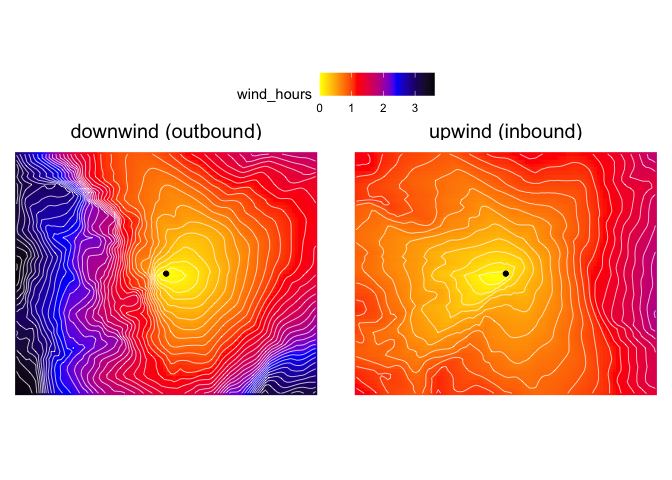
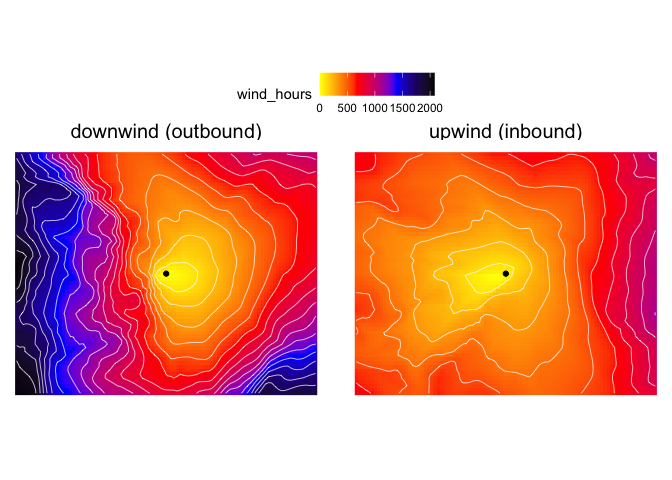
unit conversion bugfix

Changed region(s): [[0.0, 0.3125, 0.4688, 0.8438], [0.5312, 0.3125, 1.0, 0.8438], [0.5, 0.1875, 0.6562, 0.25]]

diff --git a/README.md b/README.md
@@ -59,8 +59,8 @@ downwind <- build_wind_graph(conductance, "downwind") %>%
 upwind <- build_wind_graph(conductance, "upwind") %>%
       accCost(site)
 
-# convert seconds to hours, restructure data, and plot
-d <- stack(downwind / 3600, upwind / 3600) %>%
+# restructure data and plot
+d <- stack(downwind, upwind) %>%
       rasterToPoints() %>%
       as.data.frame() %>%
       gather(direction, wind_hours, layer.1, layer.2) %>%
@@ -70,7 +70,7 @@ d <- stack(downwind / 3600, upwind / 3600) %>%
 ggplot(d) +
       facet_wrap(~direction) +
       geom_raster(aes(x, y, fill = wind_hours)) +
-      geom_contour(aes(x, y, z = wind_hours), binwidth = .1, color = "white", linewidth = .25) +
+      geom_contour(aes(x, y, z = wind_hours), bins = 20, color = "white", linewidth = .25) +
       geom_point(data = as.data.frame(site), aes(V1, V2)) +
       coord_fixed(ratio = 1.2) +
       scale_fill_gradientn(colors=c("yellow", "red", "blue", "black")) +
